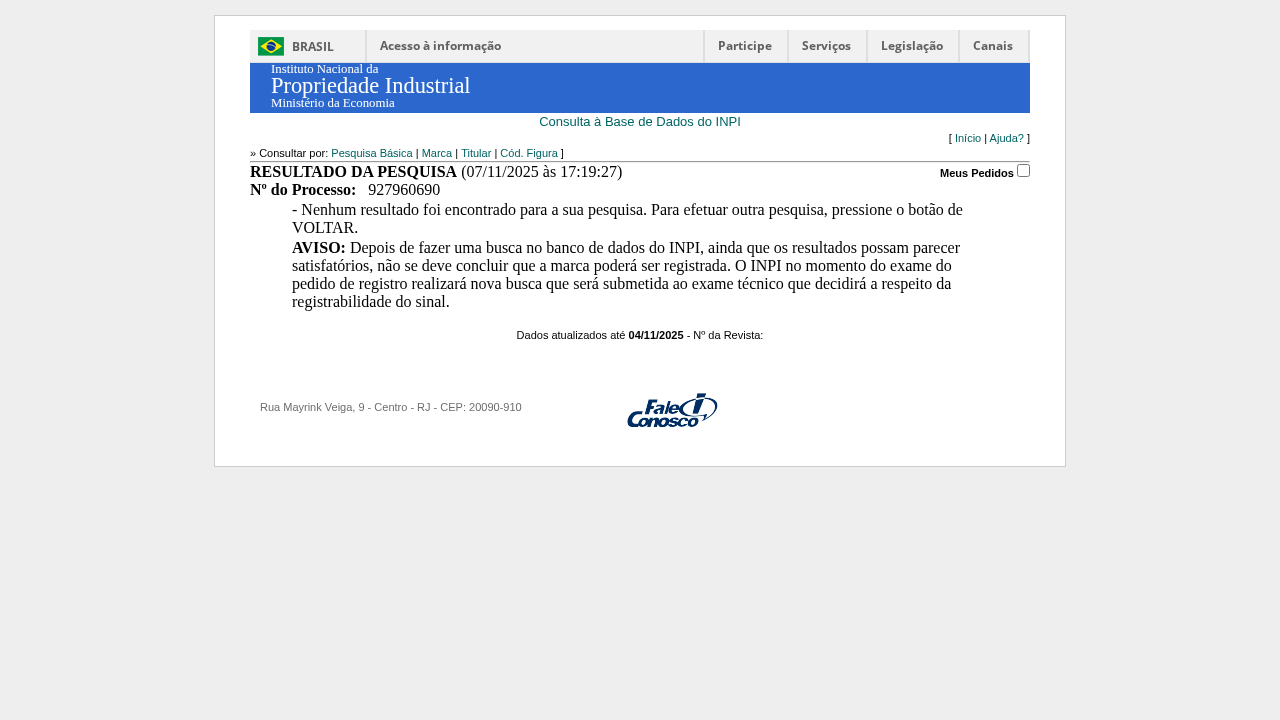
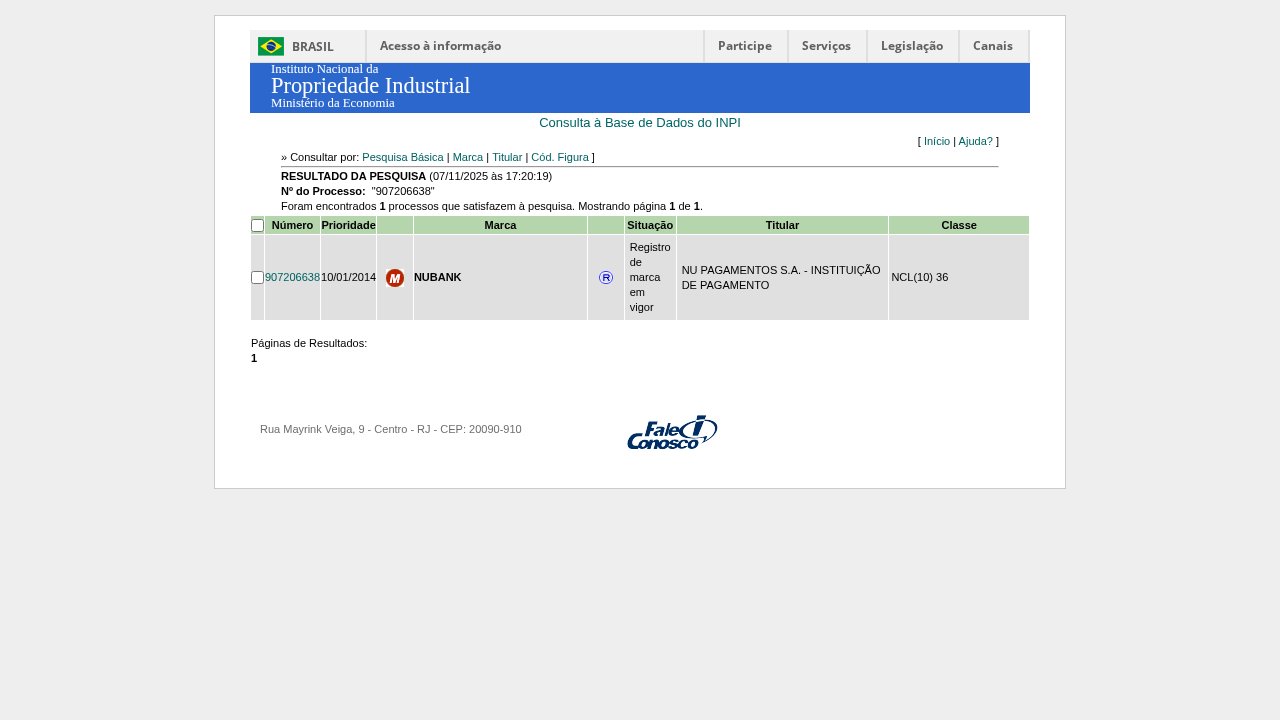
auto-commit for bb929637-9d41-4c0c-a772-2eb830622c67

diff --git a/results_html.html b/results_html.html
@@ -2,11 +2,11 @@
         <title>INPI</title>
         <meta content="text/html; charset=ISO-8859-1" http-equiv="Content-Type">
         <link href="/pePI/jsp/css/inpi.css" rel="stylesheet" type="text/css">
-        <script type="text/javascript" src="../jsp/funcoes/meusPedidos.js"></script>
+   		<script type="text/javascript" src="../jsp/funcoes/meusPedidos.js"></script>
[1 lines of base64/hex data omitted]
     <body bgcolor="#ffffff">
-    <form id="F_Marca" name="F_Marca" method="post" action="/pePI/servlet/MarcasServletController">
-        <div id="mainContainer">
+    <form name="MarcaPesquisa" method="POST" action="../servlet/MarcasServletController">
+    <div id="mainContainer">
 
 <div id="principal">
 <br>
@@ -21,99 +21,167 @@
 <script src="/pePI/jsp/funcoes/barra.js" type="text/javascript"></script>
 
 
-        
-        <input type="hidden" name="Action" value="cadastroProcesso" style="">
-        <input type="hidden" name="NumPedido" value="927960690" style="">         
 
-        <table width="100%" align="center" border="0" cellpadding="0" cellspacing="0">
-            <tbody><tr>
-                <td colspan="2" align="center"><font class="titulo">Consulta à Base de Dados do INPI</font></td>
-            </tr>
-        </tbody></table>
-        <table width="780px" align="center" border="0" cellpadding="3" cellspacing="0">
-            <tbody><tr>
-                <td colspan="2" align="left">
-                    <font class="normal">
-                        <div align="right">
+    <table width="100%" align="center" border="0" cellpadding="0" cellspacing="1">
+        <tbody><tr>
+            <td colspan="8" align="center"><font class="titulo">Consulta à Base de Dados do INPI</font></td>
+        </tr>
+    </tbody></table>
+    <table align="center" border="0" cellpadding="3" cellspacing="1" width="720px">
+        <tbody><tr>
+            <td colspan="8" align="left">
+                <font class="normal">
+                    <div align="right">
 	                    [ <a href="../jsp/Base_pesquisa.jsp" class="titulo">Início</a> |
 	                    <a href="../jsp/Ajuda.jsp" class="normal">Ajuda?</a> ]
-                        </div>
-                    </font>
-                </td>
+                    </div>
+                </font>
+            </td>
+        </tr>
+        <tr>
+            <td colspan="8" align="left">
+                <font class="normal">
+                    » Consultar por: 
+                        <a class="titulo" href="../jsp/marcas/Pesquisa_num_processo.jsp">Pesquisa Básica</a> |
+                        <a class="titulo" href="../jsp/marcas/Pesquisa_classe_basica.jsp">Marca</a> |
+                        <a class="titulo" href="../jsp/marcas/Pesquisa_titular.jsp">Titular </a> |
+                        <a class="titulo" href="../jsp/marcas/Pesquisa_figura.jsp">Cód. Figura</a> ]
+                </font>
+            </td>
+        </tr>
+        <tr>
+		  	<td colspan="2">
+	   	   		<hr class="hr">
+	    	</td>
+		</tr>
+        <tr>
+            <td colspan="8" align="left">
+                <font class="normal">
+                    <b>RESULTADO DA PESQUISA</b> 
+                    (07/11/2025 às 17:20:19)
+                    <br>
+                    <b>Nº do Processo: </b>&nbsp;"907206638"<br>Foram encontrados <b>1</b> processos que satisfazem  à pesquisa. Mostrando página <b>1</b> de <b>1</b>.<br>
+                </font>
+            </td>
+        </tr>
+    </tbody></table>
+
+
+    <table width="780" align="center" border="0" cellpadding="2" cellspacing="1">
+        
+            	<tbody><tr>
+            	
+	                <td align="center" width="5" bgcolor="#B5D6AD">
+	                	<font class="normal">
+       		               <input type="checkbox" name="TodosMeusPedidos" value="todos" class="ComboForm" onclick="checkboxStatus(this)" style="">
+	                	</font>
+	                </td>
+                    
+                <td align="center" width="5%" bgcolor="#B5D6AD" height="10"><font class="normal"><b>Número</b></font></td>
+                <td align="center" width="5%" bgcolor="#B5D6AD" height="10"><font class="normal"><b>Prioridade</b></font></td>
+                <td align="center" width="5%" bgcolor="#B5D6AD" height="18"><font class="normal">&nbsp;</font></td>		
+                <td align="center" width="25%" bgcolor="#B5D6AD" height="10"><font class="normal"><b>Marca</b></font></td>
+                <td align="center" width="5%" bgcolor="#B5D6AD" height="18"><font class="normal">&nbsp;</font></td>				
+                <td align="center" width="5%" bgcolor="#B5D6AD" height="10"> <font class="normal"><b>Situação</b></font></td>
+                <td align="center" width="30%" bgcolor="#B5D6AD" height="10"><font class="normal"><b>Titular</b></font></td>
+                <td align="center" width="20%" bgcolor="#B5D6AD" height="10"><font class="normal"><b>Classe</b></font></td>
+                
             </tr>
-            <tr>
-                <td colspan="2" align="left">
+            
+            <tr bgcolor="#E0E0E0" class="normal">
+                
+    	            <td>
+    	               <input type="checkbox" name="MeusPedidos" value="907206638" onchange="ConfirmMyList(this.form,'907206638',0)" style="">
+    	            </td>
+                    
+                <td align="center">
                     <font class="normal">
-                        » Consultar por: 
-                            <a class="titulo" href="../jsp/marcas/Pesquisa_num_processo.jsp">Pesquisa Básica</a> | 
-                            <a class="titulo" href="../jsp/marcas/Pesquisa_classe_basica.jsp">Marca</a> | 
-                            <a class="titulo" href="../jsp/marcas/Pesquisa_titular.jsp">Titular </a> | 
-                            <a class="titulo" href="../jsp/marcas/Pesquisa_figura.jsp">Cód. Figura</a> ]
-
+                    
+                         
+                        <a href="/pePI/servlet/MarcasServletController?Action=detail&amp;CodPedido=2976374" class="visitado">
+                            907206638
+                        </a>
+                        
+                        
                     </font>
                 </td>
-            </tr>
-            <tr>
-		  		<td colspan="2">
-	   	   			<hr class="hr">
-	    		</td>
-			</tr>
-        </tbody></table>
-         <table width="780px" align="center" border="0" cellpadding="3" cellspacing="0">
-            <tbody><tr>
-               <td colspan="2" align="left">
-                  <div align="left">
-                    <b>RESULTADO DA PESQUISA</b> (07/11/2025 às 17:19:27)
-                   </div>
-                </td>
-                <td colspan="2" align="right">
-	              <font class="normal">
-	                   	                 
-		              <div align="right">
-		                   <b>Meus Pedidos</b>
-		                   <input type="checkbox" onchange="cadastrarProcessoPush(this.form)" style="">
-		             </div>
-		             
-		            </font>
-	           </td>
-	          </tr>
-	          <tr> 
-	           <td>
-	           <b>Nº do Processo: </b>&nbsp; 927960690 <br>
-	           </td>
-               </tr>
-        </tbody></table>
-
-        <table width="700" align="center" border="0" cellpadding="2" cellspacing="2">
-            <tbody><tr>
-                <td>
-                    - Nenhum resultado foi encontrado para a sua pesquisa. Para efetuar outra pesquisa, pressione o botão de VOLTAR.
-                </td>
-            </tr>
-            <tr>
-                <td>
-                    <b>AVISO: </b>
-                    Depois de fazer uma busca no banco de dados do INPI, ainda que os resultados possam parecer satisfatórios, 
-                    não se deve concluir  que a marca poderá ser registrada. O INPI no momento do exame do pedido de registro 
-                    realizará nova busca que será submetida ao exame técnico que decidirá a respeito da registrabilidade do sinal.
-                </td>
-            </tr>
-
-            <tr>
-                <td align="center" colspan="6">
+                <td align="center">
                     <font class="normal">
-                        &nbsp;<br>Dados atualizados  até 
-                        <b>04/11/2025</b>
-                        - Nº da Revista:
-                        <b></b>
+                    10/01/2014
                     </font>
                 </td>
-            </tr>
+                <td align="center">
+                <img src="/pePI/jsp/imagens/M.gif" width="18" height="18" border="0" alt="Marca Mista">
+                </td>
+                <td align="left">
+                    <font class="normal">
+                        <b>
+                        
+                            NUBANK
+                            
+                        </b>
+                    </font>
+                </td>
+                <td align="center">
+                <!--  Situação da Marca -->
+                
+                
+	                    <img src="/pePI/jsp/imagens/registro_ok.gif" width="17" height="13" border="0" alt="Marca Registrada">
+	                 
+	               <!-- Fim da situação da marca. -->     
+                </td>
+                <td class="left padding-5">
+                    <font class="normal">
+                    
+						                  
+                        	Registro de marca em vigor
+                        
+                        
+                    </font>
+                </td>
+                <td class="left">
+                    
 
-        </tbody></table>
-    
-    
-    
+                        
+                        		
+                        		<font class="normal titular-marcas">
+                        			NU PAGAMENTOS S.A. - INSTITUIÇÃO DE PAGAMENTO
+                        		</font>
+                        		
+                        	
+                
+              	
+                </td>      
+
+                <td class="left">
+                    
+                        
+                                            
+                                            <font class="normal titulo-marcas">
+                                            	NCL(10) 36
+											</font>
+											
+											
+                    
+                </td>
+
+            </tr>
+        
+        <tr>
+            <td colspan="8" align="left">
+                <font class="normal">
+                    &nbsp;<br>Páginas de Resultados:<br>
+                    <b>1</b>
+               		<input type="hidden" name="page" value="1" style="">
+    				<input type="hidden" name="NumPedido" value="" style="">
+                	<input type="hidden" name="Action" value="MeusPedidos" style="">
+                </font>
+            </td>
+        </tr>
+    </tbody></table>
+  	
+	
+
 	<br>
       
 	<div id="bottom_principal"></div>
@@ -125,4 +193,5 @@
 			<a href="http://faleconosco.inpi.gov.br/" target="blank"><img src="/pePI/jsp/imagens/faleconosco.png" border="0" alt="Fale Conosco" onmouseout="this.src='/pePI/jsp/imagens/faleconosco.png';" title="Fale Conosco" onmouseover="this.src='/pePI/jsp/imagens/faleconosco.png';"> </a>
 		</div>
 	</div>
+
 </div></div></form></body></html>
